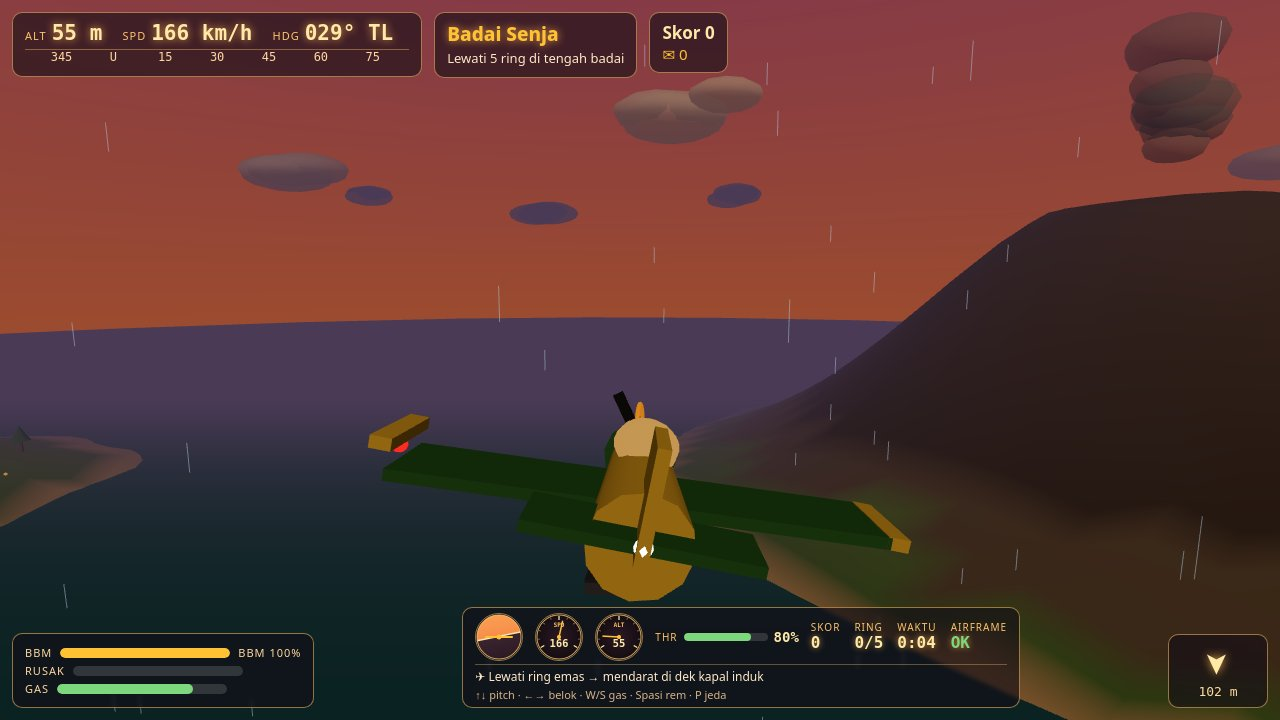
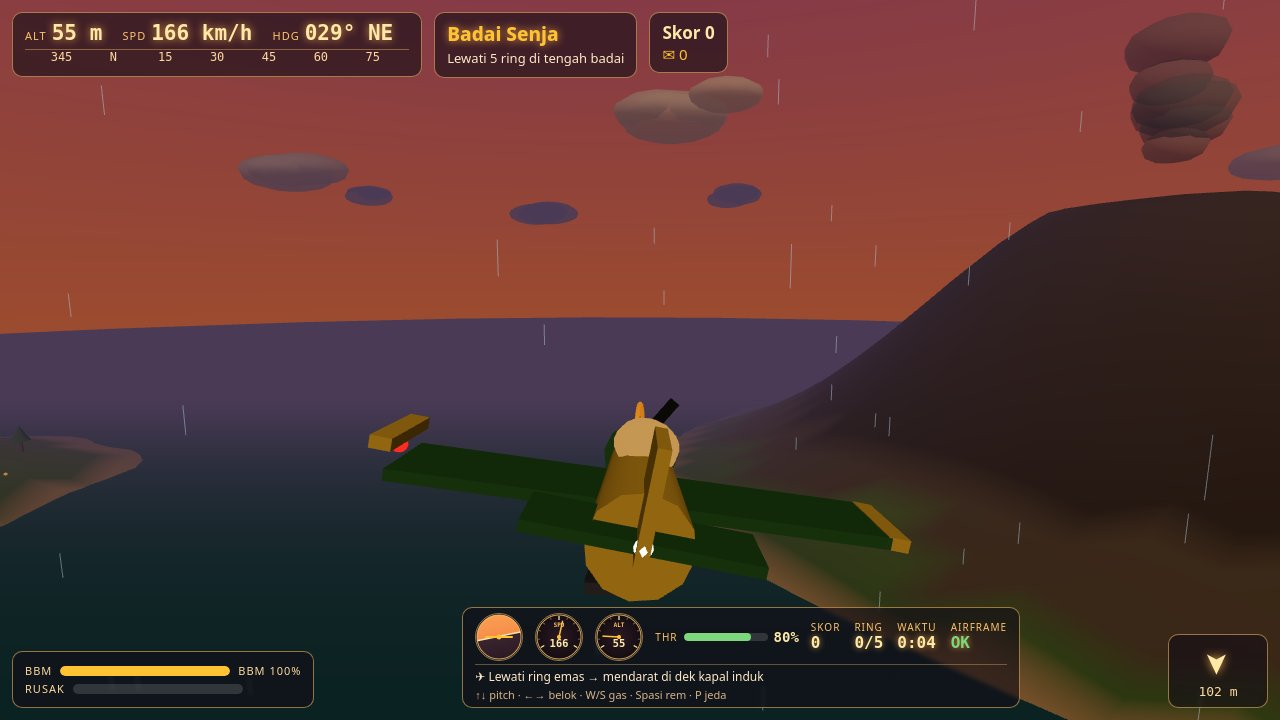
Staging cover diperbaiki (round 3): ring yang sudah dilewati disembunyikan seperti di gameplay, kamera cover ditarik mundur + naik, HUD disederhanakan
Re-mock v3 67.5% (HOLD): kedua juri bersih R2 menunjuk dua cacat yang sama
pada cover v3 - (1) ring berikutnya tertutup badan/sayap pesawat yang
terlalu besar/tengah, (2) HUD duplikatif/berantakan (bar BBM vs GAS dua
indikator mirip bahan bakar, skala kompas '345 U 15 30 45 60 75' + 'TL'
yang misterius). Perbaikan:
- rings.js: hideRing(i) baru - menyembunyikan mesh ring seperti checkPass
  saat pesawat terbang melewati ring di gameplay asli. main.js: game.hideRing.
  shots.js: staging cover kini memanggil hideRing setelah collectRing,
  jadi mesh ring 0 yang sudah dilewati tidak lagi menggantung di frame
  setengah tertutup pesawat. Hanya preset cover yang memakai collectRings.
- shots.js cover cam: dist 15 -> 18, height 5.5 -> 7 - pesawat lebih kecil
  dan lebih rendah di frame, ring 1-2 terbaca penuh di depan.
- HUD: bar GAS dihapus (itu bar throttle - duplikat bar THR di panel bawah;
  dipertahankan BBM + RUSAK + THR). Label kompas universal: U/TL/T/TG/S/BD/B/BL
  -> N/NE/E/SE/S/SW/W/NW, tape U/T/S/B -> N/E/S/W ('024° TL' -> '024° NE').
  Teks misi tidak diperkecil. Screenshot di-render ulang (seed 1, settle 90
  frame, keempat shot ready).

Changed region(s): [[0.0, 0.8861, 0.25, 0.9778], [0.4688, 0.55, 0.5312, 0.5806], [0.2812, 0.0306, 0.3125, 0.0611]]

diff --git a/game/src/hud.js b/game/src/hud.js
@@ -6,7 +6,7 @@ import { clamp } from './random.js';
 const $ = (id) => document.getElementById(id);
 
 function compassLetter(deg) {
-  const dirs = ['U', 'TL', 'T', 'TG', 'S', 'BD', 'B', 'BL'];
+  const dirs = ['N', 'NE', 'E', 'SE', 'S', 'SW', 'W', 'NW'];
   return dirs[Math.round(((deg % 360) + 360) % 360 / 45) % 8];
 }
 
@@ -15,7 +15,7 @@ export function createHud(callbacks) {
   const els = {
     alt: $('hud-alt'), spd: $('hud-spd'), hdg: $('hud-hdg'), tape: $('hud-tape'),
     fuel: $('hud-fuel-fill'), fuelText: $('hud-fuel-text'),
-    dmg: $('hud-dmg-fill'), thr: $('hud-thr-fill'),
+    dmg: $('hud-dmg-fill'),
     mission: $('hud-mission'), objective: $('hud-objective'),
     wpArrow: $('hud-wp-arrow'), wpDist: $('hud-wp-dist'),
     score: $('hud-score'), coins: $('hud-coins'), timer: $('hud-timer'),
@@ -171,7 +171,7 @@ export function createHud(callbacks) {
     for (let d = -60; d <= 60; d += 15) {
       const hd = Math.round((deg + d) / 15) * 15;
       const norm = ((hd % 360) + 360) % 360;
-      const label = norm % 90 === 0 ? ['U', 'T', 'S', 'B'][norm / 90] : String(norm);
+      const label = norm % 90 === 0 ? ['N', 'E', 'S', 'W'][norm / 90] : String(norm);
       ticks += `<span style="left:${50 + d * 0.9}%">${label}</span>`;
     }
     els.tape.innerHTML = ticks;
@@ -180,7 +180,6 @@ export function createHud(callbacks) {
     els.fuelText.textContent = `BBM ${Math.round(fuelPct)}%`;
     els.fuel.style.background = fuelPct < 25 ? '#e23b2e' : '#ffc233';
     els.dmg.style.width = `${clamp(f.damage, 0, 100)}%`;
-    els.thr.style.width = `${Math.round(f.throttle * 100)}%`;
     els.score.textContent = `Skor ${mission ? mission.score : 0}`;
     els.timer.textContent = mission && mission.timeLeft > 0
       ? `⏱ ${Math.ceil(mission.timeLeft)} dtk` : '';

diff --git a/game/src/shots.js b/game/src/shots.js
@@ -8,12 +8,15 @@ const PRESETS = {
   // Cover: chase view, plane mid-flight toward rings 1-3, home runway behind,
   // Pulau Karang ahead. Every criterion-1 element in one frame. Ring 1 is
   // collected through the real handler so the HUD shows live progress
-  // (Skor 100, RING 1/3) instead of a standing-zero score.
+  // (Skor 100, RING 1/3) instead of a standing-zero score — and its mesh is
+  // hidden, exactly as in live flight, so no ring lingers half-hidden
+  // behind the plane. Camera pulled back and raised vs v3 so the plane is
+  // smaller and the next rings read fully clear ahead of it.
   cover: {
     mission: 0, weather: 'clear',
     collectRings: [0],
     plane: { x: -118, y: 40, z: -66, heading: 0.42, pitch: 0.02, roll: -0.08, speed: 42, throttle: 0.72 },
-    cam: { dist: 15, height: 5.5, lateral: 2.5 },
+    cam: { dist: 18, height: 7, lateral: 2.5 },
     // 90 frames: the staging toast (2.6 s) is long gone by capture, and the
     // slow software renderer still finishes well inside the shot timeout.
     settleFrames: 90,
@@ -60,8 +63,10 @@ export function stageShot(game, preset) {
   }
   if (preset.collectRings) {
     // Collect listed rings through the real handler to stage mid-mission
-    // progress (score + ring counter alive), exactly as a player would.
-    for (const i of preset.collectRings) game.collectRing(i);
+    // progress (score + ring counter alive), exactly as a player would —
+    // and hide each collected ring's mesh, exactly as checkPass does when
+    // the plane physically flies through a ring in live play.
+    for (const i of preset.collectRings) { game.collectRing(i); game.hideRing(i); }
   }
   game.setPlane(preset.plane);
   game.setWeather(preset.weather);

diff --git a/game/index.html b/game/index.html
@@ -16,7 +16,7 @@
     <div class="hud-box" id="hud-instruments">
       <div class="hud-big"><span class="hud-label">ALT</span><span id="hud-alt">0 m</span></div>
       <div class="hud-big"><span class="hud-label">SPD</span><span id="hud-spd">0 km/h</span></div>
-      <div class="hud-big"><span class="hud-label">HDG</span><span id="hud-hdg">000° U</span></div>
+      <div class="hud-big"><span class="hud-label">HDG</span><span id="hud-hdg">000° N</span></div>
       <div id="hud-tape"></div>
     </div>
     <div class="hud-box" id="hud-mission-box">
@@ -33,7 +33,6 @@
     <div class="hud-box" id="hud-bars">
       <div class="bar-row"><span>BBM</span><div class="bar"><div id="hud-fuel-fill"></div></div><span id="hud-fuel-text">100%</span></div>
       <div class="bar-row"><span>RUSAK</span><div class="bar"><div id="hud-dmg-fill"></div></div></div>
-      <div class="bar-row"><span>GAS</span><div class="bar"><div id="hud-thr-fill"></div></div></div>
     </div>
     <div class="hud-box" id="hud-panel">
       <div id="hud-panel-row">

diff --git a/game/src/rings.js b/game/src/rings.js
@@ -86,7 +86,17 @@ export function createRings(scene) {
     if (beacon.visible) beacon.rotation.y += dt * 0.4;
   }
 
-  return { setActive, clear, setBeacon, hideBeacon, checkPass, update,
+  // Hide one ring's mesh, mirroring what checkPass does when the plane
+  // physically flies through it in live play. Screenshot staging uses this
+  // after collectRing so a collected ring does not linger in the frame,
+  // half-hidden behind the plane, and read as a target the player cannot
+  // see clearly.
+  function hideRing(i) {
+    const m = meshes[i];
+    if (m) m.visible = false;
+  }
+
+  return { setActive, clear, setBeacon, hideBeacon, checkPass, update, hideRing,
     get collected() { return collected; },
     get activeCount() { return active.length; },
     ringPos(i) { return RINGS[i]; },

diff --git a/game/styles.css b/game/styles.css
@@ -33,7 +33,6 @@ html, body { margin: 0; height: 100%; overflow: hidden; background: #1a1218;
 .bar div { height: 100%; border-radius: 5px; transition: width 0.15s linear; }
 #hud-fuel-fill { background: #ffc233; width: 100%; }
 #hud-dmg-fill { background: #e23b2e; width: 0%; }
-#hud-thr-fill { background: #7dd87d; width: 0%; }
 #hud-wp { text-align: center; min-width: 74px; }
 #hud-panel { padding: 5px 12px; }
 #hud-panel-row { display: flex; align-items: center; gap: 12px; }

diff --git a/game/src/main.js b/game/src/main.js
@@ -237,6 +237,7 @@ const game = {
   setWeather(name) { weather.apply(name); },
   setCamera(c) { camOffset = { ...c }; camSnapped = false; },
   collectRing(i) { if (mission) mission.onRing(i); },
+  hideRing(i) { rings.hideRing(i); },
   get mission() { return mission; },
   get flight() { return flight; },
   get state() { return state; },
